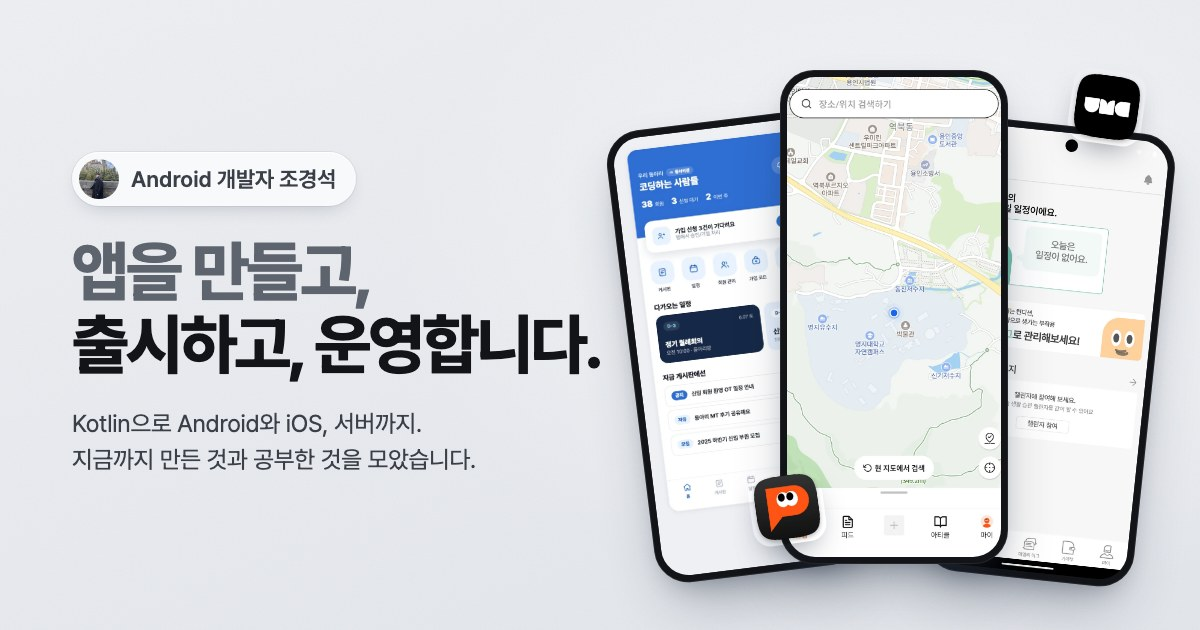
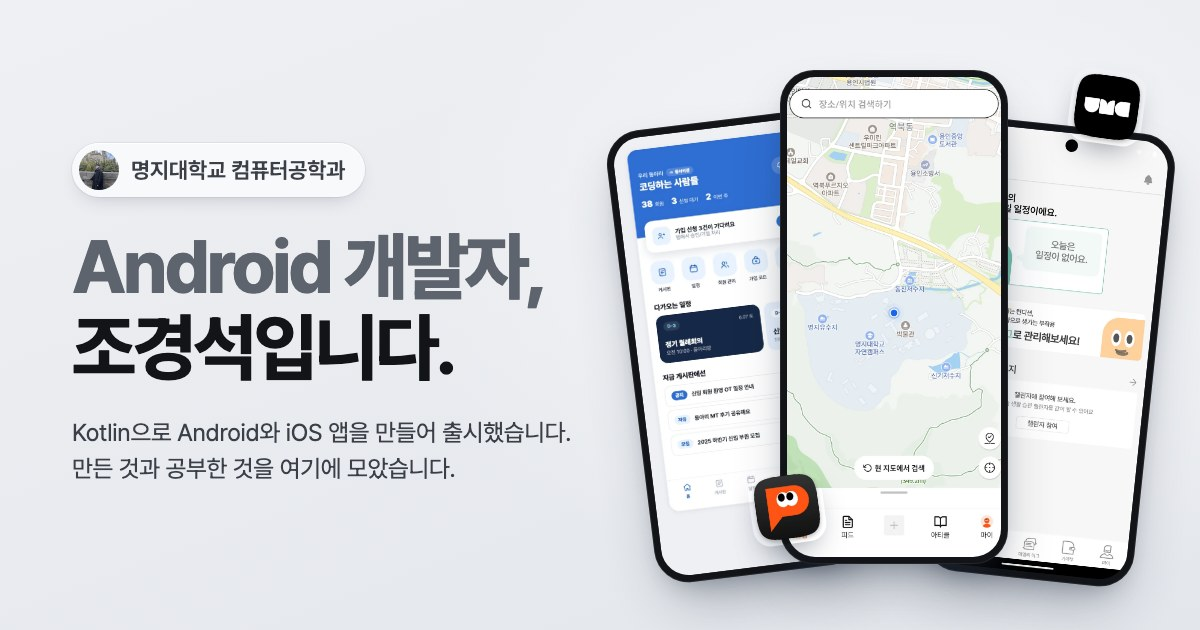
첫 화면 제목 변경, 문구를 본인 글 말투에 맞춤
제목을 'Android 개발자, 조경석입니다.'로 바꾸고 소개 문단과 공유 이미지를 새로 만듦.
논문과 노션 글처럼 결과를 먼저 쓰고 한 문장에 한 가지만 담도록 38곳을 고침.
숫자와 이름, 기술 용어는 그대로 유지

Changed region(s): [[0.0617, 0.3619, 0.4933, 0.6032], [0.0617, 0.6333, 0.4625, 0.7841], [0.0617, 0.2413, 0.3083, 0.3317]]

diff --git a/src/content/site.ts b/src/content/site.ts
@@ -56,10 +56,11 @@ export const person = {
   name: "조경석",
   nameEn: "Kyungseok Cho",
   role: "Android 개발자",
-  headline: "앱을 만들고, 출시하고, 운영합니다.", // from the user's GitHub profile README
-  lede: "Kotlin으로 Android와 iOS 앱, 서버를 개발합니다. 지금까지 만든 것과 공부한 것을 모았습니다.",
+  headline: "Android 개발자, 조경석입니다.", // HomeHero splits at the first ", " into a muted line and a bold line
+  lede: "Kotlin으로 Android와 iOS 앱을 만들어 출시했습니다. 필요하면 서버와 데스크톱 앱도 만듭니다. 만든 것과 공부한 것을 여기에 모았습니다.",
+  affiliation: "명지대학교 컴퓨터공학과",
   about: [
-    "명지대학교 컴퓨터공학과에 다니는 Android 개발자입니다. XML View로 시작해 Jetpack Compose와 Kotlin Multiplatform으로 옮겨 왔습니다. 필요하면 서버와 데스크톱 앱도 직접 만듭니다.",
+    "명지대학교 컴퓨터공학과에 다니는 Android 개발자입니다. XML View로 시작해 Jetpack Compose와 Kotlin Multiplatform으로 옮겨 왔습니다. 서버나 데스크톱 앱도 필요하면 직접 만듭니다.",
     "지금은 UMC 중앙 Android 파트장으로 운영 앱을 만들고 전국 챌린저 교육을 맡고 있습니다. 연구실에서는 컨테이너 런타임의 데이터 입력 성능을 측정합니다.",
   ],
   now: [
@@ -90,7 +91,7 @@ export const projects: Project[] = [
     status: "Google Play, App Store 출시 후 운영 중",
     summary: [
       "광고성 리뷰 때문에 지도 서비스를 믿기 어려워졌습니다. 그래서 지인이 직접 경험한 장소만 모아 보는 폐쇄형 지도 SNS를 만들었습니다.",
-      "iOS 개발자가 없는 팀이라 Kotlin Multiplatform과 Compose Multiplatform으로 Android와 iOS를 한 코드베이스로 만들어 두 스토어에 동시에 출시했습니다. 모바일 저장소 커밋의 88%가 제 커밋입니다.",
+      "팀에 iOS 개발자가 없어서 Kotlin Multiplatform과 Compose Multiplatform으로 Android와 iOS를 한 코드베이스에서 만들었고 두 스토어에 동시에 출시했습니다. 모바일 저장소 커밋의 88%가 제 커밋입니다.",
     ],
     features: [
       "네이버 지도 위 핀과 클러스터링, 카테고리별 마커, 지도 검색",
@@ -101,12 +102,12 @@ export const projects: Project[] = [
     ],
     myWork: [
       "핀맵, 로그 등록, 마이피드, 스크랩, 에디터 아티클 등 전 기능 화면",
-      "Naver Map, 카카오·네이버 로그인, FCM, WebView의 iOS 연결(expect/actual)",
+      "Naver Map, 카카오·네이버 로그인, FCM, WebView를 expect/actual로 iOS에 연결",
       "commonMain을 domain, data, remote, local, ui 레이어로 나눈 구조 개편",
       "develop은 Play 내부 테스트와 TestFlight로, master는 두 스토어로 가는 자동 배포",
     ],
     highlights: [
-      "R8을 도입해 dex 메서드 81%, 다운로드 용량 50%를 줄였습니다.",
+      "R8을 도입하자 dex 메서드가 81%, 다운로드 용량이 50% 줄었습니다.",
       "핀업에서 핀유트로 리브랜딩하면서 Android 16(API 36)을 타겟팅했습니다.",
     ],
     stack: ["Kotlin Multiplatform", "Compose Multiplatform", "Koin", "Ktor", "Ktorfit", "Coil3", "Naver Map", "Kakao SDK", "FCM", "DataStore", "fastlane", "GitHub Actions"],
@@ -155,7 +156,7 @@ export const projects: Project[] = [
     ],
     highlights: [
       "단발성 이벤트 유실을 잡는 Custom Lint 규칙을 만들어 배포 파이프라인에 붙였습니다.",
-      "앱 배포 없이 안내를 바꾸는 원격 설정을 GitHub Pages와 JSON 스키마 검사로 만들었습니다.",
+      "앱을 배포하지 않고도 안내를 바꾸려고 GitHub Pages와 JSON 스키마 검사로 원격 설정을 만들었습니다.",
     ],
     stack: ["Kotlin", "Jetpack Compose", "멀티 모듈", "Clean Architecture", "Hilt", "Retrofit", "Coroutines", "Flow", "DataStore", "ML Kit GenAI", "Custom Lint", "Macrobenchmark", "GitHub Actions"],
     links: [
@@ -174,7 +175,7 @@ export const projects: Project[] = [
       { src: "/work/umc/admin-attendance.webp", w: 720, h: 1561, alt: "UMC 운영진 출석 관리. 세션별 출석률, 출석 인원, 승인 대기 인원과 승인 대기 명단 버튼", caption: "운영진 출석 관리" },
       { src: "/work/umc/login.webp", w: 720, h: 1561, alt: "UMC 로그인. 카카오와 Google 로그인, UMC 계정 로그인 버튼", caption: "로그인" },
     ],
-    imageNote: "Android 5명이 함께 만드는 팀 앱의 화면입니다. 이 중 로그인, 공지, 출석을 제가 맡았습니다. 개발 서버의 QA 테스트 계정으로 찍어 실제 이용자 정보는 없습니다.",
+    imageNote: "Android 5명이 함께 만드는 팀 앱이고 그중 로그인, 공지, 출석을 제가 맡았습니다. 화면은 개발 서버의 QA 테스트 계정으로 찍어서 실제 이용자 정보가 없습니다.",
   },
   {
     slug: "damoim",
@@ -188,8 +189,8 @@ export const projects: Project[] = [
     role: "기획, 디자인, 앱, 서버, DB, 배포 전부",
     status: "전 기능 구현과 서버 연동 완료, 미배포",
     summary: [
-      "동아리를 운영하면서 공지는 오픈채팅에 묻히고 자료는 카페에 흩어지는 일을 겪었습니다. 명부는 엑셀로 따로 관리해야 했습니다. 대상을 동아리장과 운영진으로 좁혀 전용 앱을 만들었습니다.",
-      "86개 화면을 직접 디자인하고 Compose Multiplatform 앱(Android, iOS)과 Spring Boot 서버를 만들어 집 PC에서 Docker로 돌렸습니다. 화면 42개, REST API 99개, 테이블 39개 규모입니다.",
+      "동아리를 운영할 때 공지는 오픈채팅에 묻히고 자료는 카페에 흩어졌습니다. 명부는 엑셀로 따로 관리해야 했습니다. 그래서 대상을 동아리장과 운영진으로 좁혀 전용 앱을 만들었습니다.",
+      "86개 화면을 직접 디자인했습니다. 앱은 Compose Multiplatform으로 Android와 iOS를 함께 만들었고 서버는 Spring Boot로 짜서 집 PC에서 Docker로 돌렸습니다. 화면 42개, REST API 99개, 테이블 39개 규모입니다.",
     ],
     features: [
       "카카오 로그인과 가입 코드 신청, 운영진 승인",
@@ -200,13 +201,13 @@ export const projects: Project[] = [
       "구독과 인앱 결제, FCM 푸시",
     ],
     myWork: [
-      "기획과 디자인 시안 86개 화면",
+      "기획과 디자인 시안(86개 화면)",
       "CMP 앱: 직접 만든 MVI-lite로 38개 화면 패턴 통일, expect/actual 브릿지 8종",
       "Spring Boot 서버: 카카오 OAuth, JWT 리프레시 토큰 회전, presigned URL 업로드, 레이트 리밋",
       "PostgreSQL과 Flyway 마이그레이션, Docker Compose 자가 호스팅, Tailscale Funnel",
     ],
     highlights: [
-      "Kakao SDK와 StoreKit은 Swift가 Kotlin 인터페이스를 구현해 등록하는 방식으로 붙여 commonMain에 SDK 의존성이 없습니다.",
+      "commonMain에는 SDK 의존성이 없습니다. Kakao SDK와 StoreKit은 Swift가 Kotlin 인터페이스를 구현해 등록하는 방식으로 붙였습니다.",
       "파일은 서버를 거치지 않고 스토리지로 바로 올라갑니다. 서버는 실제 크기만 다시 확인합니다.",
     ],
     stack: ["Compose Multiplatform", "Ktor Client", "MVI-lite", "Kakao SDK", "StoreKit 2", "FCM", "Spring Boot 3", "Kotlin", "PostgreSQL 16", "JPA", "Flyway", "AWS S3", "Docker", "Tailscale"],
@@ -242,7 +243,7 @@ export const projects: Project[] = [
     status: "이용자 약 500명, 인스타그램 릴스 누적 조회수 약 5만 회",
     summary: [
       "도트 포켓몬이 바탕화면 위를 걸어다니는 데스크톱 게임입니다. 5-7분마다 나타나는 야생 포켓몬을 잡을 수 있습니다.",
-      "Python 클라이언트와 FastAPI 서버를 혼자 만들었습니다. 서명과 공증을 거친 설치 파일에 자동 업데이트까지 붙여 배포하고 있습니다. 지금 이용자는 약 500명이고 게임을 소개한 인스타그램 릴스는 누적 조회수가 약 5만 회 나왔습니다.",
+      "Python 클라이언트와 FastAPI 서버를 혼자 만들었습니다. 설치 파일은 서명과 공증을 거치고 자동 업데이트도 붙여 배포하고 있습니다. 지금 이용자는 약 500명이고 게임을 소개한 인스타그램 릴스는 누적 조회수가 약 5만 회 나왔습니다.",
     ],
     features: [
       "바탕화면 위를 걷는 도트 포켓몬 (1,025종 중 982종)",
@@ -294,8 +295,8 @@ export const projects: Project[] = [
     role: "기획, 디자인, 개발, 배포 전부",
     status: "v1.0.3 릴리즈",
     summary: [
-      "UMC 앱의 원격 설정은 GitHub Pages에 있는 JSON 파일입니다. 이 JSON을 직접 고치지 않고 폼에서 바꿀 수 있게 만든 데스크톱 앱입니다.",
-      "설정을 바꾸면 PR을 엽니다. 스키마 검증을 통과하면 머지와 배포까지 대신 해 줍니다. Compose Multiplatform Desktop으로 만들었습니다.",
+      "UMC 앱의 원격 설정은 GitHub Pages에 있는 JSON 파일입니다. 이 JSON을 손으로 고치지 않고 폼에서 바꿀 수 있게 데스크톱 앱을 만들었습니다.",
+      "설정을 바꾸면 PR을 엽니다. 스키마 검증을 통과하면 머지와 배포까지 대신 해 줍니다. Compose Multiplatform Desktop으로 개발했습니다.",
     ],
     features: [
       "GitHub 로그인 (OAuth Device Flow, gh CLI 토큰, PAT)",
@@ -337,7 +338,7 @@ export const projects: Project[] = [
     status: "Google Play 출시, 약 6개월 운영, 약 100명 실사용",
     summary: [
       "난임 치료를 받는 부부가 주사, 약, 병원 일정과 비용, 하루 기록을 함께 남기는 앱입니다.",
-      "XML View로 출시한 뒤 Jetpack Compose와 feature 단위 멀티 모듈로 다시 만들었습니다. 서버 운영비 부담으로 서비스를 닫았습니다.",
+      "XML View로 출시한 뒤 Jetpack Compose와 feature 단위 멀티 모듈로 다시 만들었습니다. 다만 서버 운영비가 부담돼 서비스는 닫았습니다.",
     ],
     features: [
       "온보딩과 배우자 공유 코드로 부부 연결",
@@ -354,7 +355,7 @@ export const projects: Project[] = [
     ],
     highlights: [
       "라이브러리 없이 ViewPager2 코드를 분석해 겹치는 카드 캐러셀을 구현했습니다.",
-      "시스템 글꼴 크기에 영향받지 않는 타이포그래피로 글꼴을 크게 설정한 기기에서도 레이아웃이 깨지지 않게 했습니다.",
+      "타이포그래피가 시스템 글꼴 크기에 영향받지 않게 만들었습니다. 그래서 글꼴을 크게 설정한 기기에서도 레이아웃이 깨지지 않습니다.",
     ],
     stack: ["Kotlin", "Jetpack Compose", "XML View", "Clean Architecture", "MVVM", "멀티 모듈", "Hilt", "Retrofit", "Coroutines", "Flow", "DataStore", "FCM", "Firebase Analytics"],
     links: [
@@ -375,7 +376,7 @@ export const projects: Project[] = [
   {
     slug: "plub",
     name: "PLUB",
-    tagline: "취미와 관심사로 사람을 잇는 소모임 커뮤니티 앱",
+    tagline: "취미와 관심사가 맞는 사람끼리 모이는 소모임 커뮤니티 앱",
     kind: "팀",
     platform: "Android",
     period: "2022.01 - 2023.06",
@@ -384,7 +385,7 @@ export const projects: Project[] = [
     role: "메인 홈, 검색, 북마크, 모집 글 상세, 아카이브, 마이페이지, 신고, 설정",
     status: "개발 완료, 팀 사정으로 정식 출시 전 마무리",
     summary: [
-      "14명이 함께한 첫 대규모 협업입니다. Activity만 다루던 때에 들어가 멀티 모듈, Hilt, Flow를 처음 익혔습니다. Android 3명 중 커밋 수는 제가 1위(611개)였습니다.",
+      "14명이 함께한 첫 대규모 협업입니다. Activity만 다루던 때에 합류해 멀티 모듈, Hilt, Flow를 여기서 처음 익혔습니다. Android 3명 중 커밋 수는 제가 1위(611개)였습니다.",
       "초기 프로토타입에서는 네이버 로그인과 네이버 지도를 붙였고 본 앱에서는 모집과 활동 흐름의 주요 화면을 맡았습니다.",
     ],
     features: [
@@ -422,7 +423,7 @@ export const projects: Project[] = [
     role: "Unity XR 클라이언트 전체, 백엔드 일부",
     status: "2026 AI·가상융합(XR) 서비스 개발자 경진대회 출품",
     summary: [
-      "XR 글래스를 쓰고 사물을 바라보면 앱 안에서 바로 인식해 제품 정보 카드를 시야에 띄워 주는 앱입니다.",
+      "XR 글래스를 쓰고 사물을 바라보면 제품 정보 카드를 시야에 띄워 주는 앱입니다. 사물은 앱 안에서 바로 인식합니다.",
     ],
     features: [
       "시선이 350ms 머문 사물을 지목",
@@ -433,7 +434,7 @@ export const projects: Project[] = [
       "카메라 프레임 확보, Unity Inference Engine으로 YOLO 모델 추론",
       "정보 카드 UI, 다른 물건에 정보가 잘못 붙던 문제를 추적 ID 캐시로 해결",
       "웹캠 테스트, Quest, 폰 세 가지 빌드",
-      "FastAPI와 Gemini 백엔드 응답 지연 개선, 엔드포인트 보호",
+      "FastAPI와 Gemini 백엔드의 응답 지연을 줄이고 엔드포인트를 보호",
     ],
     stack: ["Unity", "C#", "OpenXR", "ONNX", "YOLO", "FastAPI", "Gemini API", "Docker"],
     links: [],
@@ -454,14 +455,14 @@ export const projects: Project[] = [
     status: "UMC 프로젝트, 100명 이상 체험",
     summary: [
       "스테이블코인 결제를 한국인에게 익숙한 방식으로 바꾸는 서비스입니다. 붕어빵을 살 때 계좌이체를 하듯 스테이블코인으로도 쉽게 결제하고 송금할 수 있게 하는 것이 목표입니다.",
-      "빗썸, 업비트처럼 여러 거래소에 흩어진 스테이블코인 자산을 스코이 한곳에서 보고 송금과 충전, 자산 관리까지 할 수 있습니다. 대학생 핀테크 프로젝트로 시작해 100명 이상이 직접 써 봤습니다.",
+      "빗썸, 업비트처럼 여러 거래소에 흩어진 스테이블코인 자산을 스코이 한곳에서 볼 수 있습니다. 송금과 충전, 자산 관리도 같은 앱에서 합니다. 대학생 핀테크 프로젝트로 시작해 100명 이상이 직접 써 봤습니다.",
     ],
     features: [
       "휴대폰 인증, 간편 비밀번호, 거래소 연동 가이드로 이어지는 짧은 가입",
       "간편 비밀번호와 생체 인증 로그인",
       "여러 거래소의 USDT, USDC 잔액을 한눈에 보고 송금, 자주 쓰는 주소록",
       "스테이블코인 충전과 현금 전환, 시세 차트",
-      "내 지갑: 원화 입출금과 송금·충전 기록을 한곳에서",
+      "내 지갑: 원화 입출금과 송금·충전 기록을 한곳에서 확인",
       "디페깅(가격 이탈)을 대신 감시하고 알림",
       "처음 보는 용어는 툴팁과 쉬운 표현으로 안내",
       "거래소 API 키 연동 관리, API Secret Key 암호화 저장",
@@ -540,7 +541,7 @@ export const projects: Project[] = [
       "설치와 사용법, 비교 실험, 실행해 보지 않은 경우까지 적은 README",
     ],
     highlights: [
-      "같은 기능 요청을 바로 구현하는 방식과 spec-run으로 2번씩 실행해 보니 spec-run 쪽은 바뀐 파일이 계획에 적힌 2개와 일치했고 검증 범위도 두 번 모두 같았습니다.",
+      "같은 기능 요청을 바로 구현하는 방식과 spec-run으로 2번씩 실행해 비교했습니다. spec-run 쪽은 바뀐 파일이 계획에 적힌 2개와 일치했고 검증 범위도 두 번 모두 같았습니다.",
       "훅으로 막는 장치 없이 스킬의 지시만으로 동작합니다. 지금까지 실행하면서 순서를 어긴 적은 없었습니다.",
     ],
     stack: ["Claude Code", "Agent Skills", "Markdown", "Gradle", "npm"],
@@ -558,7 +559,7 @@ export const projects: Project[] = [
     role: "시트 구성과 수식 설계, 제작 전부",
     status: "2026년 외주 프로젝트",
     summary: [
-      "에이블리에 입점한 셀러를 위해 만든 마진 관리 엑셀입니다. 에이블리에서 내려받은 주문 엑셀을 그대로 붙여넣기만 하면 주문 한 줄마다 원가, 수수료, 택배비, 예상마진이 계산되고 주간·월간 합계가 나옵니다.",
+      "에이블리에 입점한 셀러를 위해 만든 마진 관리 엑셀입니다. 에이블리에서 내려받은 주문 엑셀을 그대로 붙여넣으면 주문 한 줄마다 원가, 수수료, 택배비, 예상마진이 계산되고 주간·월간 합계가 나옵니다.",
       "엑셀에 익숙하지 않은 사람도 매주 복사와 붙여넣기만 하면 되도록 매크로 없이 수식만으로 만들었습니다.",
     ],
     features: [
@@ -610,7 +611,7 @@ export const projects: Project[] = [
     year: 2024,
     role: "혼자 기획하고 개발 (131커밋)",
     status: "개인 프로젝트",
-    summary: ["Firebase를 백엔드로 혼자 완성한 첫 개인 앱입니다. 멀티 모듈과 MVVM도 스스로 세팅해 봤습니다."],
+    summary: ["Firebase를 백엔드로 써서 혼자 완성한 첫 개인 앱입니다. 멀티 모듈과 MVVM도 직접 세팅해 봤습니다."],
     features: ["이메일 가입과 인증, 자동 로그인", "오늘의 산문, 정렬, 검색", "산문 쓰기, 좋아요, 댓글", "토론장: 네이버 책 검색, 대댓글", "나만의 책, 신고, 알림 설정"],
     myWork: ["presentation, domain, data 멀티 모듈과 buildSrc", "Firebase Auth, Realtime Database, FCM 연동 (Firestore에서 전환)", "Room으로 최근 검색어 저장, 네이버 책 검색 API 연동"],
     stack: ["Kotlin", "XML View", "DataBinding", "멀티 모듈", "MVVM", "Hilt", "Coroutines", "Firebase", "Room"],
@@ -621,7 +622,7 @@ export const projects: Project[] = [
   {
     slug: "volunteer",
     name: "봉사활동 앱",
-    tagline: "1365 봉사 정보 조회와 신청, 기록 캘린더를 담은 학부 팀 프로젝트",
+    tagline: "1365 봉사 정보 조회와 신청, 봉사 기록 캘린더를 구현한 학부 팀 프로젝트",
     kind: "팀",
     platform: "Android",
     period: "2021.10 - 2021.12",
@@ -649,7 +650,7 @@ export const study: Study[] = [
     featured: true,
     summary: [
       "연구실에서 딥러닝 학습 중 데이터 입력 성능이 컨테이너 런타임마다 어떻게 다른지 측정하고 있습니다.",
-      "선행 연구는 Enroot와 Apptainer의 차이를 입력과 GPU 연산을 합친 값으로만 보고했습니다. 그 차이가 데이터를 읽고 디코딩해 GPU로 넘기는 입력 계층에서 오는지 보려고 단일 노드에서 입력 계층만 따로 쟀습니다.",
+      "선행 연구는 Enroot와 Apptainer의 차이를 입력과 GPU 연산을 합친 값으로만 보고했습니다. 그 차이가 입력 계층(데이터를 읽고 디코딩해 GPU로 넘기는 부분)에서 오는지 보려고 단일 노드에서 입력 계층만 따로 쟀습니다.",
     ],
     topics: ["Apptainer", "Podman", "Enroot", "user namespace", "SIF와 squashfs", "overlayfs와 FUSE", "PyTorch DataLoader", "strace", "실험 설계"],
     sections: [
@@ -664,7 +665,7 @@ export const study: Study[] = [
       {
         heading: "실험",
         items: [
-          "Ryzen 9 9950X, RTX 5070, Ubuntu 24.04에서 host, Podman, Apptainer, Enroot를 마운트 방식까지 나눈 7개 조건 비교",
+          "Ryzen 9 9950X, RTX 5070, Ubuntu 24.04에서 host, Podman, Apptainer, Enroot를 마운트 방식까지 나눠 7개 조건으로 비교",
           "GPU 연산을 뺀 공급 처리량, 실제 학습 처리량, 입력 비용을 0으로 둔 수요 처리량을 나눠 측정",
           "시나리오 스크립트, 실행기, 보고서 생성기로 된 벤치마크 킷 container-dl-bench를 직접 제작",
         ],
@@ -674,12 +675,12 @@ export const study: Study[] = [
         items: [
           "성능은 런타임이 아니라 데이터 경로(커널 경로냐 FUSE냐)에 따라 갈렸습니다. ext4 대비 fuse-overlayfs의 파일 접근 처리량은 -64.8%였고 런타임 사이 차이는 재현 오차(약 ±3%) 안이었습니다.",
           "비용은 데이터를 옮기는 read가 아니라 openat, newfstatat처럼 경로를 해석하는 단계에 있었습니다.",
-          "/proc을 도는 모니터링 도구가 일부 런타임에만 부담을 줬고 이 도구를 끄자 Apptainer가 5.06% 빨라졌습니다. 재는 도구가 결과를 바꿀 수 있다는 걸 배웠습니다.",
+          "/proc을 도는 모니터링 도구는 일부 런타임에만 부담을 줬습니다. 이 도구를 끄자 Apptainer가 5.06% 빨라졌습니다. 재는 도구가 결과를 바꿀 수 있다는 걸 배웠습니다.",
           "빈 컨테이너 기동은 Apptainer가 133ms로 가장 빨랐지만 import torch까지 재면 2,392ms로 가장 느렸습니다. 무엇을 기동 완료로 보느냐에 따라 순위가 바뀝니다.",
         ],
       },
     ],
-    caveat: "단일 노드, 단일 GPU에서 얻은 결과이고 원인은 계속 분석하고 있습니다.",
+    caveat: "단일 노드, 단일 GPU에서 얻은 결과입니다. 원인은 계속 분석하고 있습니다.",
   },
   {
     slug: "docker-basics",
@@ -710,7 +711,7 @@ export const study: Study[] = [
     source: "GitHub Compose-Study",
     period: "2024.06 - 2024.07",
     featured: true,
-    summary: ["XML View만 쓰다 Compose로 넘어가며 2주 동안 날짜별로 정리한 스터디 노트입니다. 스터디를 마친 직후 허그를 Compose로 다시 만들기 시작했습니다."],
+    summary: ["XML View만 쓰다가 Compose로 넘어가면서 2주 동안 날짜별로 정리한 스터디 노트입니다. 스터디를 마친 직후 허그를 Compose로 다시 만들기 시작했습니다."],
     topics: ["Text, Surface, Box, Row, Column", "BoxWithConstraints", "Slot API", "Recomposition", "ConstraintLayout", "Dialog, SnackBar, BottomAppBar", "State Hoisting", "Crossfade", "ViewModel과 LiveData", "CompositionLocal과 Theme"],
     sections: [
       { heading: "6월 20일, 21일", items: ["Text, Surface, Box, Row, Column, BoxWithConstraints, Image", "CheckBox와 Slot API"] },
@@ -723,7 +724,7 @@ export const study: Study[] = [
   {
     slug: "overlap-viewpager",
     title: "라이브러리 없이 겹치는 카드 캐러셀 만들기",
-    short: "ViewPager2 내부 구조를 분석해 가운데 카드가 앞으로 나오는 캐러셀을 구현",
+    short: "ViewPager2 내부 구조를 뜯어보고 가운데 카드가 앞으로 나오는 캐러셀을 구현",
     area: "Android",
     source: "Notion",
     period: "2024",
@@ -738,7 +739,7 @@ export const study: Study[] = [
           "OnPageChangeCallback에서 translationZ를 조정해 가운데 카드를 맨 위로",
         ],
       },
-      { heading: "헤맨 부분", items: ["when 분기 순서를 잘못 두면 오른쪽 두 번째 카드 처리로 가지 않아 판별 순서를 바로잡았습니다."] },
+      { heading: "헤맨 부분", items: ["when 분기 순서를 잘못 두자 오른쪽 두 번째 카드 처리로 가지 않았습니다. 그래서 판별 순서를 바로잡았습니다."] },
     ],
     related: "hugg",
   },
@@ -775,7 +776,7 @@ export const study: Study[] = [
     period: "2026.08 - 현재",
     featured: true,
     summary: [
-      "AndroidX 릴리스 노트, Android Developers Blog, Android Studio 블로그, Kotlin Blog, Android Weekly, compose-rules 릴리스 같은 공식 소스를 매주 모으는 자동화입니다. 그중 Compose와 Kotlin, 빌드, AI 도구 관련 변화만 골라 한국어로 요약합니다.",
+      "공식 소스를 매주 모으는 자동화입니다. AndroidX 릴리스 노트, Android Developers Blog, Android Studio 블로그, Kotlin Blog, Android Weekly, compose-rules 릴리스 등에서 Compose와 Kotlin, 빌드, AI 도구 관련 변화만 골라 한국어로 요약합니다.",
       "항목마다 왜 중요한지, Lint 규칙이나 코딩 에이전트 규칙으로 옮길 만한 후보는 무엇인지 함께 적어 둡니다.",
     ],
     topics: ["Kotlin 2.4.20", "Compose 1.12", "Navigation 3", "Room 2.8", "compose-rules", "Android Studio", "DroidKaigi 2026"],
@@ -801,12 +802,12 @@ export const study: Study[] = [
     source: "GitHub",
     period: "2025.09 - 2026.05",
     summary: [
-      "UMC 9기에서는 챌린저로 FLO 음악 앱을 클론하며 10주 워크북을 풀었습니다. 10기에서는 중앙 Android 파트장으로 XML 전용이던 공식 워크북을 개편했습니다. 새 커리큘럼에서는 XML과 Compose를 함께 다루고 옮기는 과정까지 배웁니다.",
+      "UMC 9기에서는 챌린저로 FLO 음악 앱을 클론하며 10주 워크북을 풀었습니다. 10기에서는 중앙 Android 파트장을 맡아 XML 전용이던 공식 워크북을 개편했습니다. 새 커리큘럼에서는 XML과 Compose를 함께 다루고 XML에서 Compose로 옮기는 과정까지 배웁니다.",
     ],
     topics: ["XML View", "ViewPager", "RecyclerView", "Jetpack Compose", "Navigation Compose", "DataStore", "Retrofit"],
     sections: [
       { heading: "9기 챌린저 (2025.09 - 2025.11)", items: ["FLO 음악 앱 클론, 1-10주차 미션", "XML, ViewPager, RecyclerView"] },
-      { heading: "10기 워크북 (2026.03 - 2026.05)", items: ["신발 쇼핑 앱 클론: 홈, 구매, 위시리스트, 장바구니, 프로필", "초반은 XML과 Navigation, 9주차에는 Compose와 Navigation Compose로 전환", "DataStore, Retrofit, Coil"] },
+      { heading: "10기 워크북 (2026.03 - 2026.05)", items: ["신발 쇼핑 앱 클론: 홈, 구매, 위시리스트, 장바구니, 프로필", "초반에는 XML과 Navigation, 9주차에는 Compose와 Navigation Compose로 전환", "DataStore, Retrofit, Coil"] },
     ],
     links: [
       { label: "10기 워크북", href: "https://github.com/rudtjr1106/UMC-10th-Android-workbook" },
@@ -833,10 +834,10 @@ export const study: Study[] = [
 export const record = {
   education: [
     { when: "2020.03 - 2027.02", what: "명지대학교 컴퓨터공학과", detail: "2027년 2월 졸업 예정, 전공 학점 3.94 / 4.5" },
-    { when: "2026.03 - 현재", what: "지능형데이터처리 연구실 학부연구생", detail: "컨테이너 런타임별 학습 데이터 입력 파이프라인 성능 비교 연구" },
+    { when: "2026.03 - 현재", what: "지능형데이터처리 연구실 학부연구생", detail: "컨테이너 런타임별로 학습 데이터 입력 파이프라인 성능을 비교하는 연구" },
   ],
   activities: [
-    { when: "UMC 10기", what: "UMC 중앙 Android 파트장", detail: "전국 28개 대학, 약 1,000명 규모의 대학 연합 IT 동아리. 공식 Android 워크북을 개편하고 전국 챌린저 교육을 맡고 있습니다." },
+    { when: "UMC 10기", what: "UMC 중앙 Android 파트장", detail: "전국 28개 대학, 약 1,000명 규모의 대학 연합 IT 동아리입니다. 공식 Android 워크북을 개편하고 전국 챌린저 교육을 맡고 있습니다." },
     { when: "UMC 9기", what: "UMC Android 챌린저", detail: "팀 프로젝트로 데모데이 우수상" },
     { when: "19기 - 23기", what: "대학 연합 봉사 동아리 발룬타스 부회장, 회장", detail: "봉사 활동 약 310시간" },
   ],

diff --git a/src/components/home/HomeHero.tsx b/src/components/home/HomeHero.tsx
@@ -8,7 +8,7 @@ import { HeroDevices } from "./HeroDevices";
 
 const i = (n: number) => ({ ["--i" as string]: n }) as CSSProperties;
 
-/** "앱을 만들고, 출시하고, 운영합니다." -> ["앱을 만들고,", "출시하고, 운영합니다."] */
+/** "Android 개발자, 조경석입니다." -> ["Android 개발자,", "조경석입니다."] */
 function splitHeadline(h: string): [string, string] {
   const at = h.indexOf(", ");
   return at < 0 ? ["", h] : [h.slice(0, at + 1), h.slice(at + 2)];
@@ -38,7 +38,7 @@ export function HomeHero() {
               sizes="28px"
               className="size-7 rounded-full object-cover [box-shadow:0_0_0_1px_var(--edge)]"
             />
-            {person.role} {person.name}
+            {person.affiliation}
           </p>
 
           <h1 id="hero-title" className="rise mt-7 type-display text-ink" style={i(1)}>

diff --git a/src/components/home/StudyHighlights.tsx b/src/components/home/StudyHighlights.tsx
@@ -8,7 +8,7 @@ export function StudyHighlights() {
   const [lead, ...others] = featuredStudy;
   if (!lead) return null;
   return (
-    <Section id="study" title="공부한 것" lede="Notion과 GitHub에 정리한 노트 중 몇 가지입니다.">
+    <Section id="study" title="공부한 것" lede="Notion과 GitHub에 정리한 공부 기록 중 몇 개를 골랐습니다.">
       <div className="grid gap-4 lg:grid-cols-12 lg:gap-5">
         <div className="reveal grid lg:col-span-7">
           <StudyCard item={lead} variant="feature" tone="accent" />

diff --git a/src/lib/content.ts b/src/lib/content.ts
@@ -19,7 +19,7 @@ export const shareImage = {
   url: "/opengraph-image.jpg",
   width: 1200,
   height: 630,
-  alt: "조경석, Android 개발자. 앱을 만들고, 출시하고, 운영합니다.",
+  alt: "Android 개발자, 조경석입니다. Kotlin으로 Android와 iOS 앱을 만들어 출시했습니다.",
 };
 
 /* ---------- URLs ---------- */
